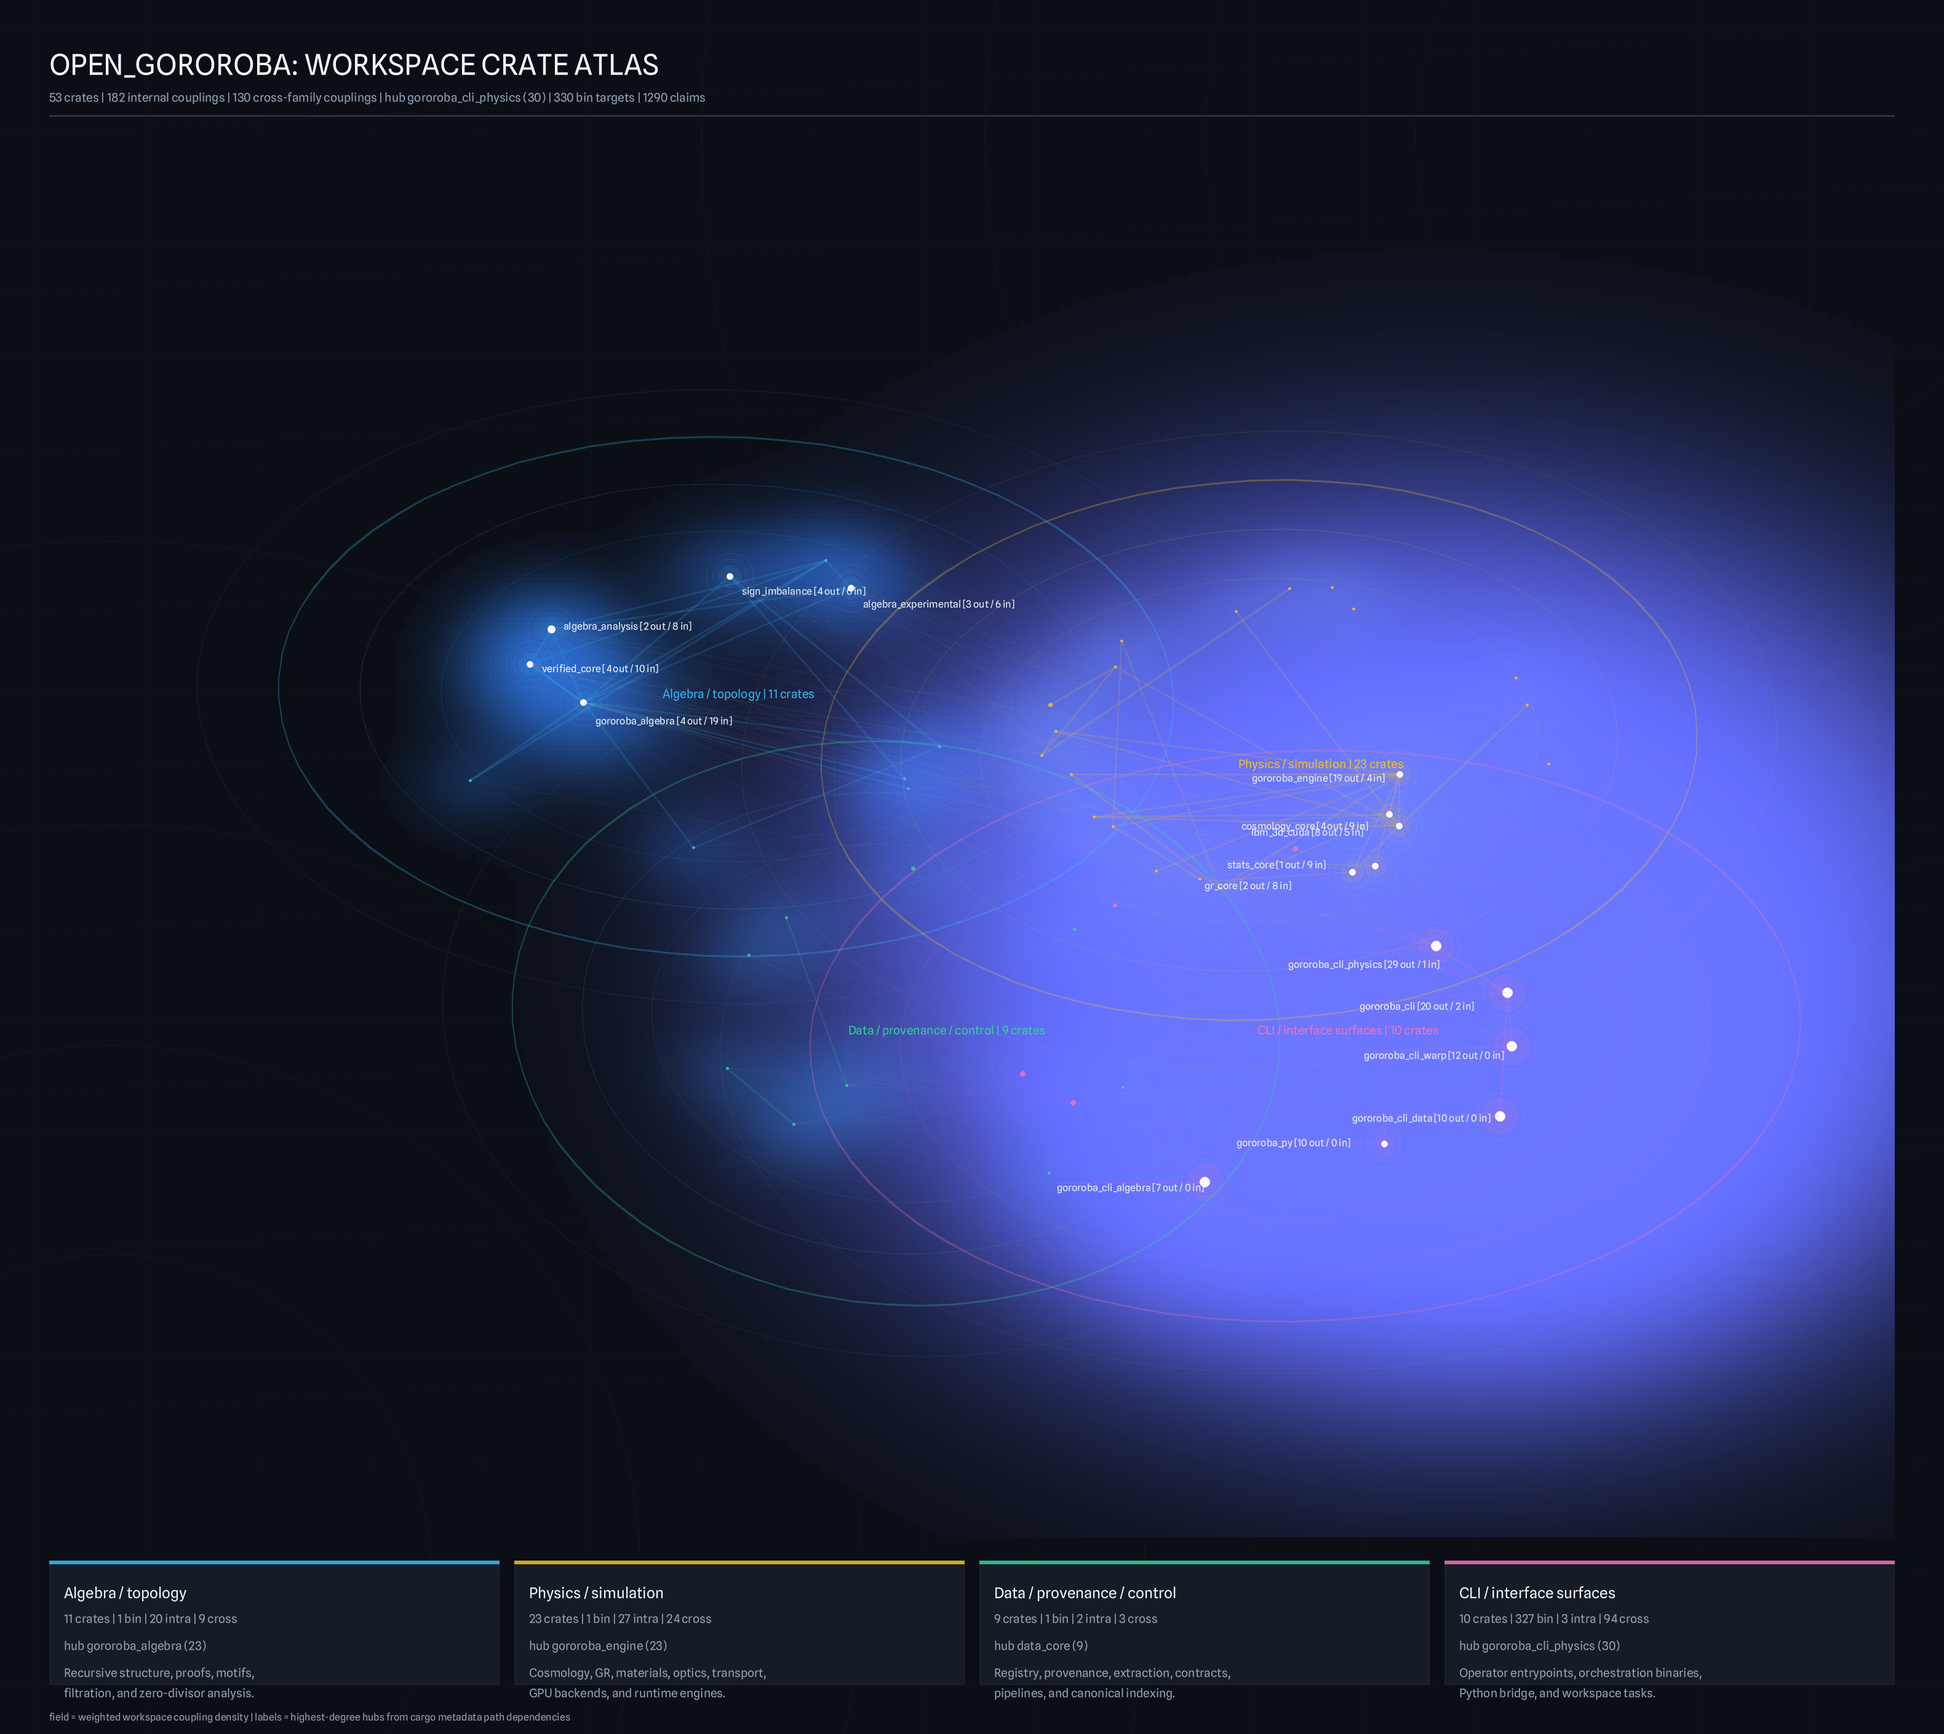
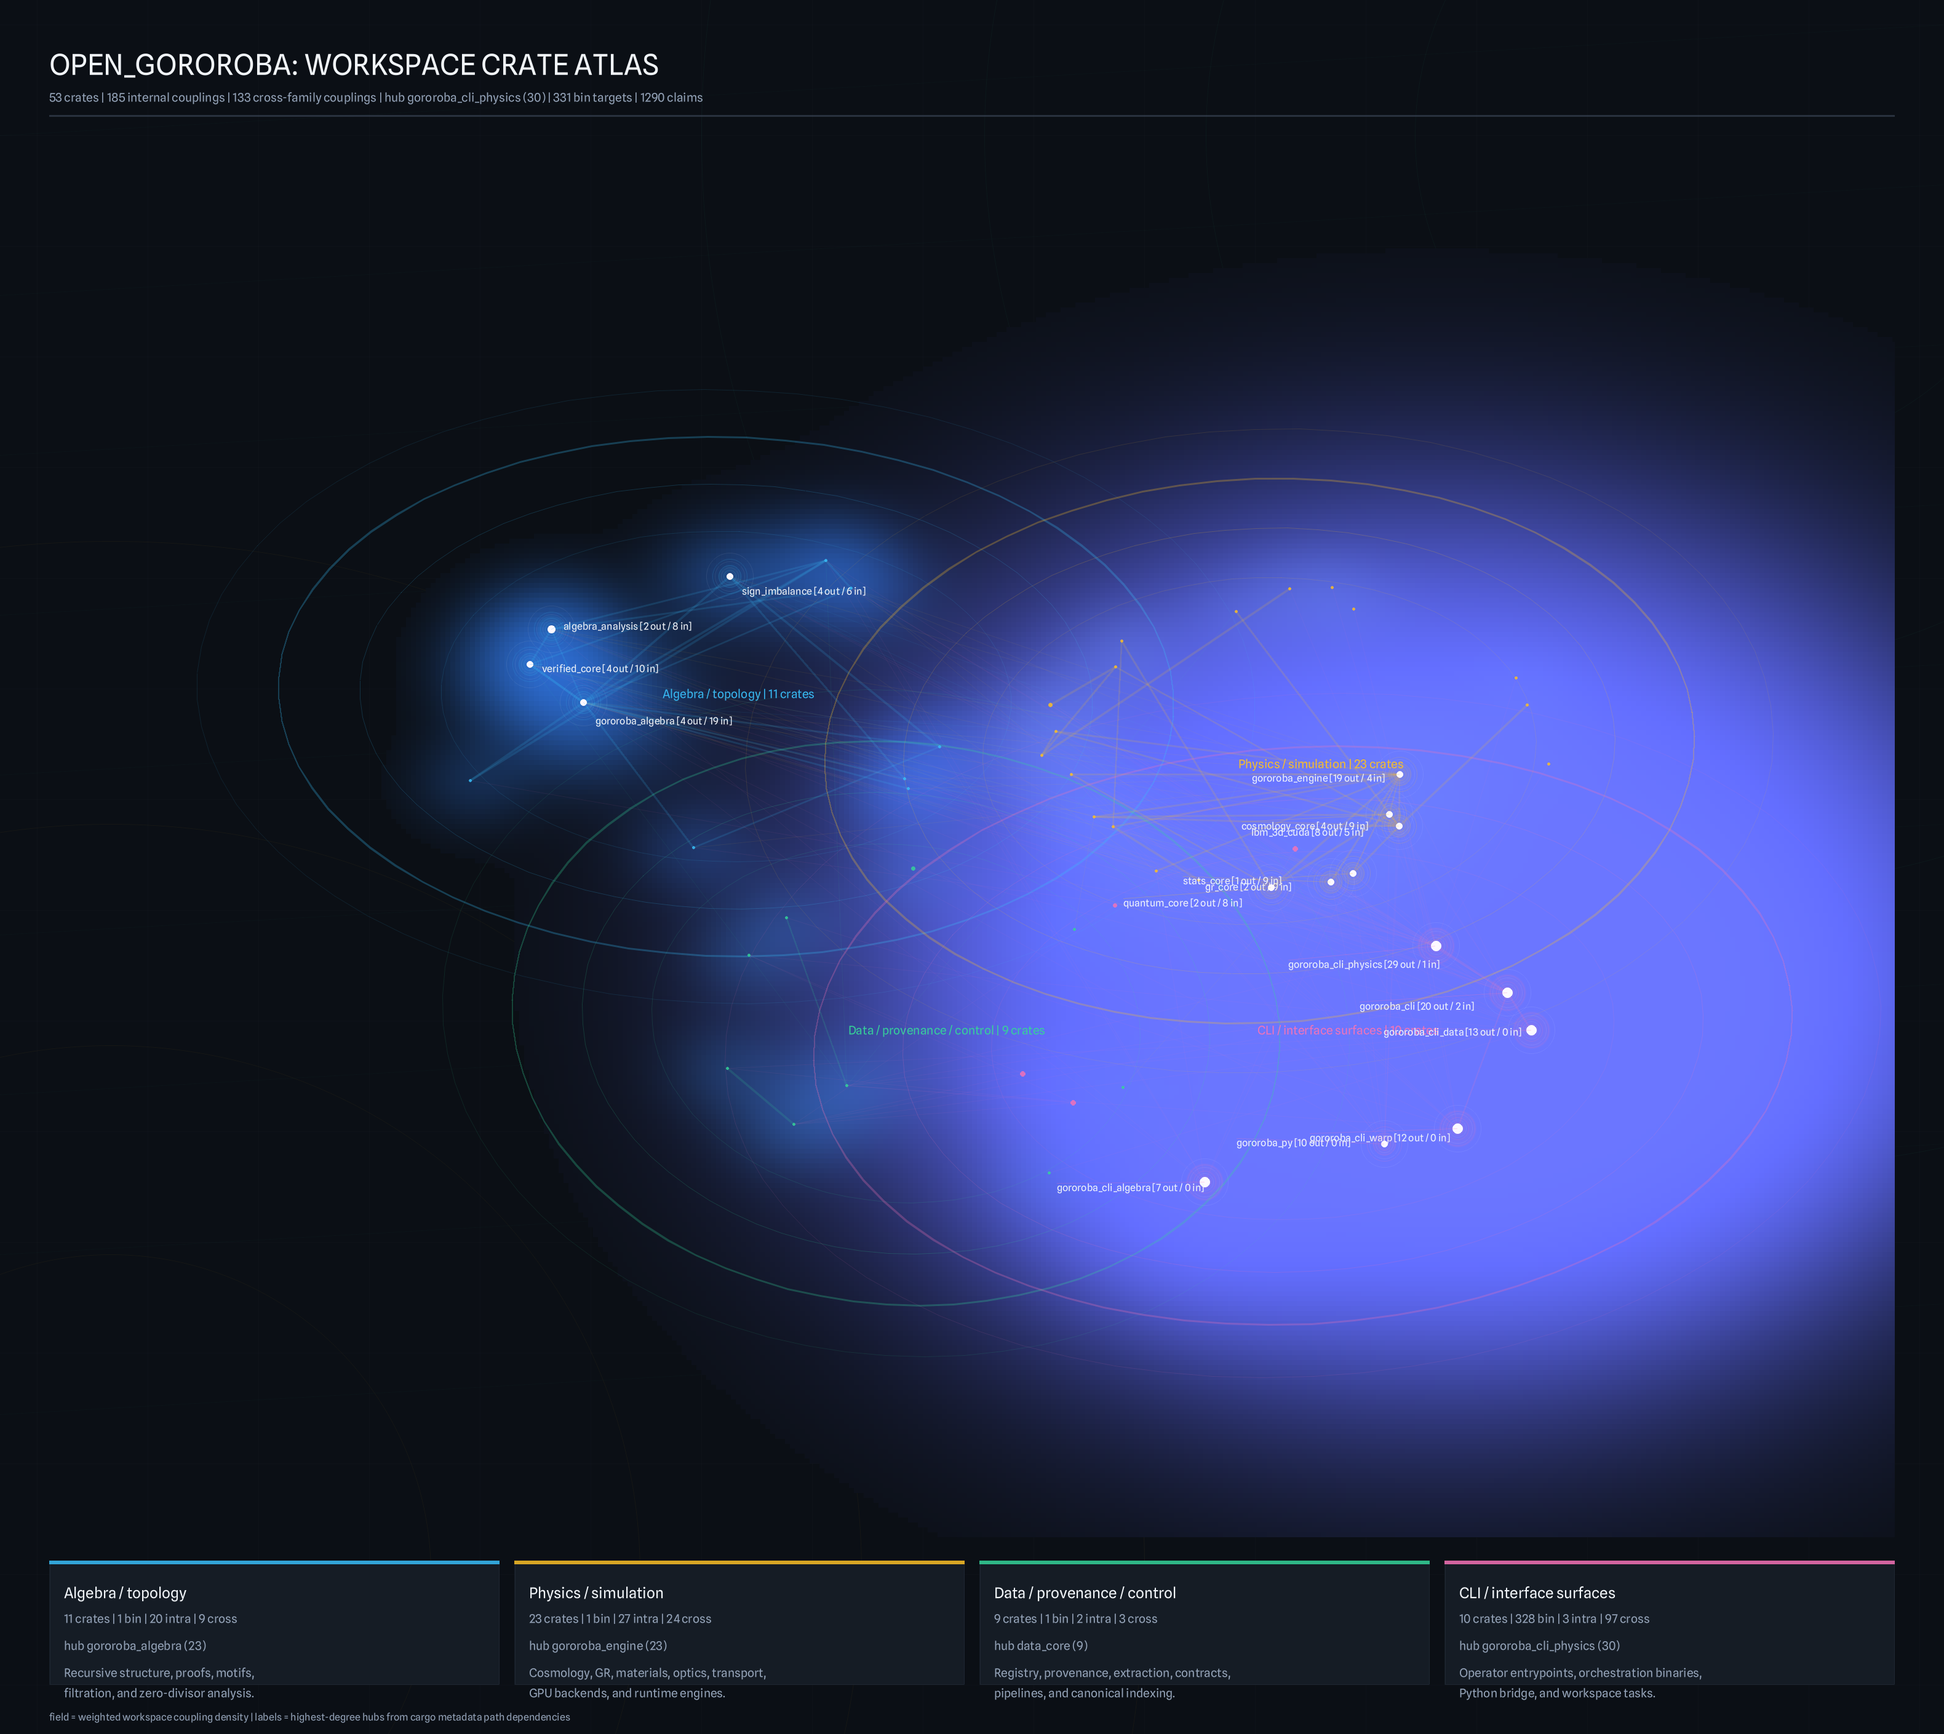
docs: refresh repo visuals and pathion science plate

diff --git a/crates/gororoba_cli_data/src/bin/repo_visuals.rs b/crates/gororoba_cli_data/src/bin/repo_visuals.rs
@@ -33,7 +33,7 @@ const FAMILY_MAP_FILE: &str = "repo_crate_family_map_3160x2820.png";
 const OPERATOR_MATRIX_FILE: &str = "repo_operator_matrix_3160x2820.png";
 const E183_PHASE_PLATE_FILE: &str = "science_e183_phase_plate_3160x2820.png";
 const GRAVASTAR_PLATE_FILE: &str = "science_gravastar_stability_plate_3160x2820.png";
-const ALGEBRA_PLATE_FILE: &str = "science_algebra_resonance_plate_3160x2820.png";
+const ALGEBRA_PLATE_FILE: &str = "science_pathion_zero_divisor_interaction_graph_3160x2820.png";
 
 #[derive(Parser, Debug)]
 #[command(
@@ -2675,8 +2675,12 @@ fn build_zd_graph(
     let mut degree = BTreeMap::<usize, usize>::new();
     let mut raw_edges = Vec::with_capacity(rows.len());
     for row in rows {
-        labels.entry(row.source).or_insert_with(|| row.label_s.clone());
-        labels.entry(row.target).or_insert_with(|| row.label_t.clone());
+        labels
+            .entry(row.source)
+            .or_insert_with(|| row.label_s.clone());
+        labels
+            .entry(row.target)
+            .or_insert_with(|| row.label_t.clone());
         *degree.entry(row.source).or_default() += 1;
         *degree.entry(row.target).or_default() += 1;
         raw_edges.push((row.source, row.target));
@@ -2744,9 +2748,13 @@ fn read_zd_edge_rows(path: &Path) -> Result<Vec<ZeroDivisorEdgeRow>> {
             .trim()
             .parse::<usize>()
             .with_context(|| format!("parse target on line {} in {}", idx + 1, path.display()))?;
-        let rest = head
-            .next()
-            .with_context(|| format!("missing label payload on line {} in {}", idx + 1, path.display()))?;
+        let rest = head.next().with_context(|| {
+            format!(
+                "missing label payload on line {} in {}",
+                idx + 1,
+                path.display()
+            )
+        })?;
         let mut depth = 0_i32;
         let mut split_at = None;
         for (char_idx, ch) in rest.char_indices() {
@@ -2950,39 +2958,61 @@ fn render_e183_phase_plate_v2(path: &Path, repo_root: &Path, project: &ProjectBl
     }
 
     chart
-        .draw_series(field_samples.iter().filter_map(|(xc, yc, total, coherence, _)| {
-            let intensity = if max_total <= 0.0 { 0.0 } else { total / max_total };
-            (intensity > 0.028).then(|| {
-                Rectangle::new(
-                    [
-                        (*xc - dx * 0.52, *yc - dy * 0.52),
-                        (*xc + dx * 0.52, *yc + dy * 0.52),
-                    ],
-                    ShapeStyle::from(&phase_manifold_color(intensity, *coherence)).filled(),
-                )
-            })
-        }))
+        .draw_series(
+            field_samples
+                .iter()
+                .filter_map(|(xc, yc, total, coherence, _)| {
+                    let intensity = if max_total <= 0.0 {
+                        0.0
+                    } else {
+                        total / max_total
+                    };
+                    (intensity > 0.028).then(|| {
+                        Rectangle::new(
+                            [
+                                (*xc - dx * 0.52, *yc - dy * 0.52),
+                                (*xc + dx * 0.52, *yc + dy * 0.52),
+                            ],
+                            ShapeStyle::from(&phase_manifold_color(intensity, *coherence)).filled(),
+                        )
+                    })
+                }),
+        )
         .map_err(plot_err)?;
 
     let contour_levels = [0.14, 0.27, 0.41, 0.58, 0.74];
     chart
-        .draw_series(field_samples.iter().filter_map(|(xc, yc, total, coherence, _)| {
-            let intensity = if max_total <= 0.0 { 0.0 } else { total / max_total };
-            (intensity > 0.12 && contour_hit(intensity, &contour_levels, 0.012)).then(|| {
-                Rectangle::new(
-                    [
-                        (*xc - dx * 0.52, *yc - dy * 0.52),
-                        (*xc + dx * 0.52, *yc + dy * 0.52),
-                    ],
-                    ShapeStyle::from(
-                        &RGBColor(246, 250, 255).mix((0.04 + 0.12 * coherence).clamp(0.04, 0.18)),
-                    ),
-                )
-            })
-        }))
+        .draw_series(
+            field_samples
+                .iter()
+                .filter_map(|(xc, yc, total, coherence, _)| {
+                    let intensity = if max_total <= 0.0 {
+                        0.0
+                    } else {
+                        total / max_total
+                    };
+                    (intensity > 0.12 && contour_hit(intensity, &contour_levels, 0.012)).then(
+                        || {
+                            Rectangle::new(
+                                [
+                                    (*xc - dx * 0.52, *yc - dy * 0.52),
+                                    (*xc + dx * 0.52, *yc + dy * 0.52),
+                                ],
+                                ShapeStyle::from(
+                                    &RGBColor(246, 250, 255)
+                                        .mix((0.04 + 0.12 * coherence).clamp(0.04, 0.18)),
+                                ),
+                            )
+                        },
+                    )
+                }),
+        )
         .map_err(plot_err)?;
 
-    let max_power = phase_rows.iter().map(|row| row.power).fold(0.0_f64, f64::max);
+    let max_power = phase_rows
+        .iter()
+        .map(|row| row.power)
+        .fold(0.0_f64, f64::max);
     let max_snr = phase_rows
         .iter()
         .map(|row| row.mode_snr)
@@ -2993,7 +3023,11 @@ fn render_e183_phase_plate_v2(path: &Path, repo_root: &Path, project: &ProjectBl
             .partial_cmp(&a.power)
             .unwrap_or(std::cmp::Ordering::Equal)
     });
-    for row in peaks.iter().copied().filter(|row| row.power > max_power * 0.13) {
+    for row in peaks
+        .iter()
+        .copied()
+        .filter(|row| row.power > max_power * 0.13)
+    {
         let t = (row.power / max_power.max(1e-9)).clamp(0.0, 1.0);
         for (scale, alpha, width) in [(1.0, 0.16, 1), (1.55, 0.11, 1), (2.15, 0.08, 1)] {
             chart
@@ -3029,7 +3063,11 @@ fn render_e183_phase_plate_v2(path: &Path, repo_root: &Path, project: &ProjectBl
         for gx in 0..glyph_cols {
             let x = x_lo + (gx as f64 + 0.5) * (x_hi - x_lo) / glyph_cols as f64;
             let (total, coherence, angle) = sample_phase_manifold(x, y, &phase_rows, sx, sy);
-            let intensity = if max_total <= 0.0 { 0.0 } else { total / max_total };
+            let intensity = if max_total <= 0.0 {
+                0.0
+            } else {
+                total / max_total
+            };
             if intensity < 0.20 || coherence < 0.12 {
                 continue;
             }
@@ -3072,7 +3110,12 @@ fn render_e183_phase_plate_v2(path: &Path, repo_root: &Path, project: &ProjectBl
                 .partial_cmp(&b.rayleigh_r)
                 .unwrap_or(std::cmp::Ordering::Equal)
         })
-        .map(|row| format!("phase coherence crest | k={:.2}, R={:.3}", row.k, row.rayleigh_r))
+        .map(|row| {
+            format!(
+                "phase coherence crest | k={:.2}, R={:.3}",
+                row.k, row.rayleigh_r
+            )
+        })
         .unwrap_or_else(|| "phase coherence crest | none".to_string());
     root.draw(&PathElement::new(
         vec![(2330, 290), (3010, 290)],
@@ -3108,11 +3151,7 @@ fn render_e183_phase_plate_v2(path: &Path, repo_root: &Path, project: &ProjectBl
     Ok(())
 }
 
-fn render_gravastar_plate_v2(
-    path: &Path,
-    repo_root: &Path,
-    project: &ProjectBlock,
-) -> Result<()> {
+fn render_gravastar_plate_v2(path: &Path, repo_root: &Path, project: &ProjectBlock) -> Result<()> {
     let radial = read_csv_rows::<GravastarRadialRow>(
         &repo_root.join("data/csv/gravastar_radial_stability.csv"),
     )?;
@@ -3156,7 +3195,10 @@ fn render_gravastar_plate_v2(
             )
         })
         .collect::<BTreeMap<_, _>>();
-    let radius_values = ligo.iter().map(|row| row.r2.max(1e-9).log10()).collect::<Vec<_>>();
+    let radius_values = ligo
+        .iter()
+        .map(|row| row.r2.max(1e-9).log10())
+        .collect::<Vec<_>>();
     let (x_min, x_max) = finite_bounds(&mass_values);
     let (y_min, y_max) = finite_bounds(&comp_values);
     let (severity_min, severity_max) = finite_bounds(&severity_values);
@@ -3166,7 +3208,10 @@ fn render_gravastar_plate_v2(
         .margin(8)
         .x_label_area_size(72)
         .y_label_area_size(88)
-        .build_cartesian_2d((x_min - 2.0)..(x_max + 2.0), (y_min - 0.035)..(y_max + 0.035))
+        .build_cartesian_2d(
+            (x_min - 2.0)..(x_max + 2.0),
+            (y_min - 0.035)..(y_max + 0.035),
+        )
         .map_err(plot_err)?;
     chart
         .configure_mesh()
@@ -3275,7 +3320,10 @@ fn render_gravastar_plate_v2(
     }) {
         chart
             .draw_series(std::iter::once(Text::new(
-                format!("collapse wall | M {:.0}, c {:.1}", row.m_target, row.core_compactness),
+                format!(
+                    "collapse wall | M {:.0}, c {:.1}",
+                    row.m_target, row.core_compactness
+                ),
                 (row.m_target - 18.0, row.core_compactness - 0.018),
                 ("sans-serif", 19).into_font().color(&TEXT),
             )))
@@ -3314,8 +3362,7 @@ fn render_gravastar_plate_v2(
             for row in &stable_genesis {
                 let row_ratio = (row.r2 / row.r1.max(1e-12)).max(1e-12).log10();
                 let dx_n = (gamma - row.gamma) / 0.11;
-                let dy_n =
-                    (ratio - row_ratio) / ((ratio_max - ratio_min).abs().max(1e-6) * 0.08);
+                let dy_n = (ratio - row_ratio) / ((ratio_max - ratio_min).abs().max(1e-6) * 0.08);
                 let kernel = (-0.5 * (dx_n * dx_n + dy_n * dy_n)).exp();
                 let mass_log = row.m_total.abs().max(1e-18).log10();
                 total += kernel;
@@ -3334,7 +3381,10 @@ fn render_gravastar_plate_v2(
             root.draw(&Rectangle::new(
                 [
                     (x, y),
-                    ((x + strip_step).min(strip.x1), (y + strip_step).min(strip.y1)),
+                    (
+                        (x + strip_step).min(strip.x1),
+                        (y + strip_step).min(strip.y1),
+                    ),
                 ],
                 ShapeStyle::from(&color.mix(0.86)).filled(),
             ))
@@ -3361,7 +3411,11 @@ fn render_gravastar_plate_v2(
         let py = strip.y1
             - (remap_unit(ratio, ratio_min, ratio_max) * (strip.y1 - strip.y0) as f64).round()
                 as i32;
-        let mass_t = remap_unit(row.m_total.abs().max(1e-18).log10(), mass_log_min, mass_log_max);
+        let mass_t = remap_unit(
+            row.m_total.abs().max(1e-18).log10(),
+            mass_log_min,
+            mass_log_max,
+        );
         let color = lerp_color(RGBColor(164, 245, 255), RGBColor(255, 228, 154), mass_t);
         root.draw(&Circle::new(
             (px, py),
@@ -3371,7 +3425,10 @@ fn render_gravastar_plate_v2(
         .map_err(plot_err)?;
     }
 
-    let unstable_count = radial.iter().filter(|row| !row.harrison_wheeler_stable).count();
+    let unstable_count = radial
+        .iter()
+        .filter(|row| !row.harrison_wheeler_stable)
+        .count();
     draw_note(
         &root,
         192,
@@ -3395,8 +3452,12 @@ fn render_gravastar_plate_v2(
         380,
         "Stable Bridge Branches",
         &[
-            format!("{} genesis microbranches remain stable", stable_genesis.len()),
-            "gamma = 1.5 supports the widest shells; gamma = 2.5 contracts toward R2/R1 ~ 1".to_string(),
+            format!(
+                "{} genesis microbranches remain stable",
+                stable_genesis.len()
+            ),
+            "gamma = 1.5 supports the widest shells; gamma = 2.5 contracts toward R2/R1 ~ 1"
+                .to_string(),
         ],
         CYAN,
     )?;
@@ -3405,11 +3466,7 @@ fn render_gravastar_plate_v2(
     Ok(())
 }
 
-fn render_algebra_plate_v2(
-    path: &Path,
-    repo_root: &Path,
-    project: &ProjectBlock,
-) -> Result<()> {
+fn render_algebra_plate_v2(path: &Path, repo_root: &Path, project: &ProjectBlock) -> Result<()> {
     let mass_rows =
         read_csv_rows::<SedenionMassRow>(&repo_root.join("data/csv/sedenion_mass_spectrum.csv"))?;
     let coupling_rows = read_csv_rows::<PathionCouplingRow>(
@@ -3495,7 +3552,10 @@ fn render_algebra_plate_v2(
         root.draw(&Rectangle::new(
             [
                 (*x, *y),
-                (((*x + step).min(field_rect.x1)), ((*y + step).min(field_rect.y1))),
+                (
+                    ((*x + step).min(field_rect.x1)),
+                    ((*y + step).min(field_rect.y1)),
+                ),
             ],
             ShapeStyle::from(&network_density_color(pathion_t, core_t).mix(0.84)).filled(),
         ))
@@ -3510,7 +3570,10 @@ fn render_algebra_plate_v2(
             root.draw(&Rectangle::new(
                 [
                     (*x, *y),
-                    (((*x + step).min(field_rect.x1)), ((*y + step).min(field_rect.y1))),
+                    (
+                        ((*x + step).min(field_rect.x1)),
+                        ((*y + step).min(field_rect.y1)),
+                    ),
                 ],
                 ShapeStyle::from(&RGBColor(246, 250, 255).mix(0.08)),
             ))
@@ -3630,7 +3693,13 @@ fn render_algebra_plate_v2(
         .unwrap_or(0.0);
     let field_tail = field_rows
         .last()
-        .map(|row| row.mean_energy / field_rows.first().map(|base| base.mean_energy).unwrap_or(1.0))
+        .map(|row| {
+            row.mean_energy
+                / field_rows
+                    .first()
+                    .map(|base| base.mean_energy)
+                    .unwrap_or(1.0)
+        })
         .unwrap_or(0.0);
     let mass_peak_15 = mass_rows
         .iter()

diff --git a/README.md b/README.md
@@ -76,7 +76,7 @@ cargo run -p gororoba_cli_data --bin repo-visuals
 Generated companions:
 
 - `data/artifacts/images/science_gravastar_stability_plate_3160x2820.png`
-- `data/artifacts/images/science_algebra_resonance_plate_3160x2820.png`
+- `data/artifacts/images/science_pathion_zero_divisor_interaction_graph_3160x2820.png`
 
 These science-facing plates are emitted from live generated result lanes:
 
